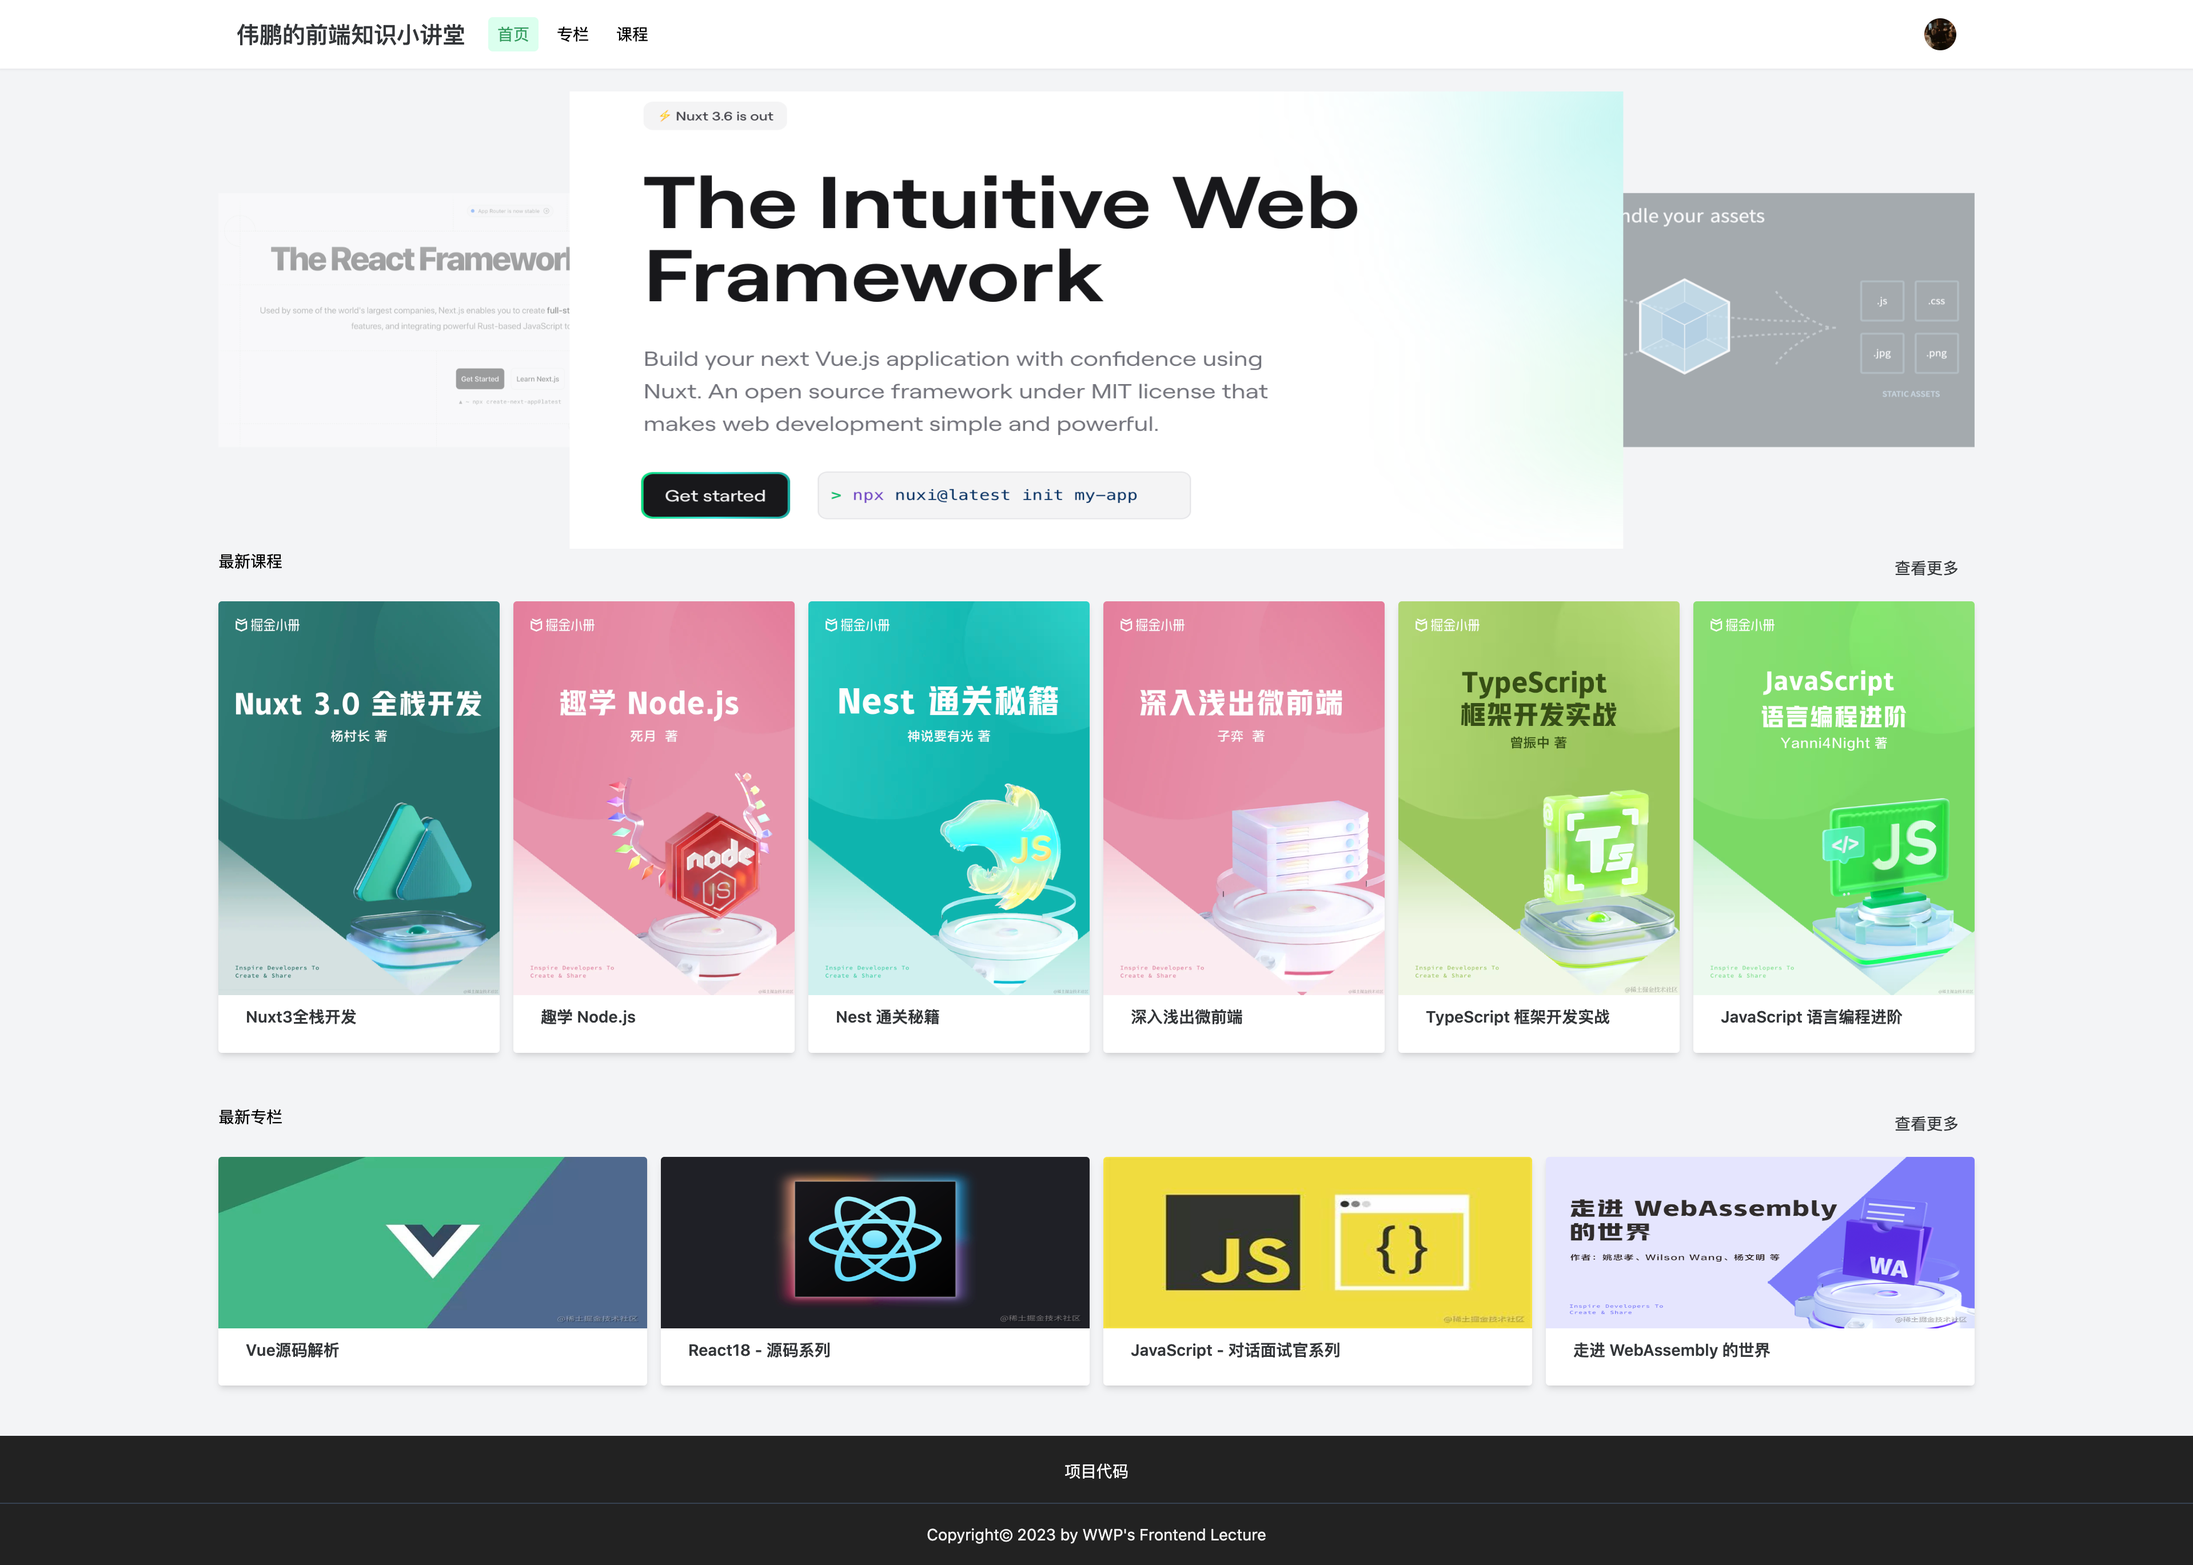
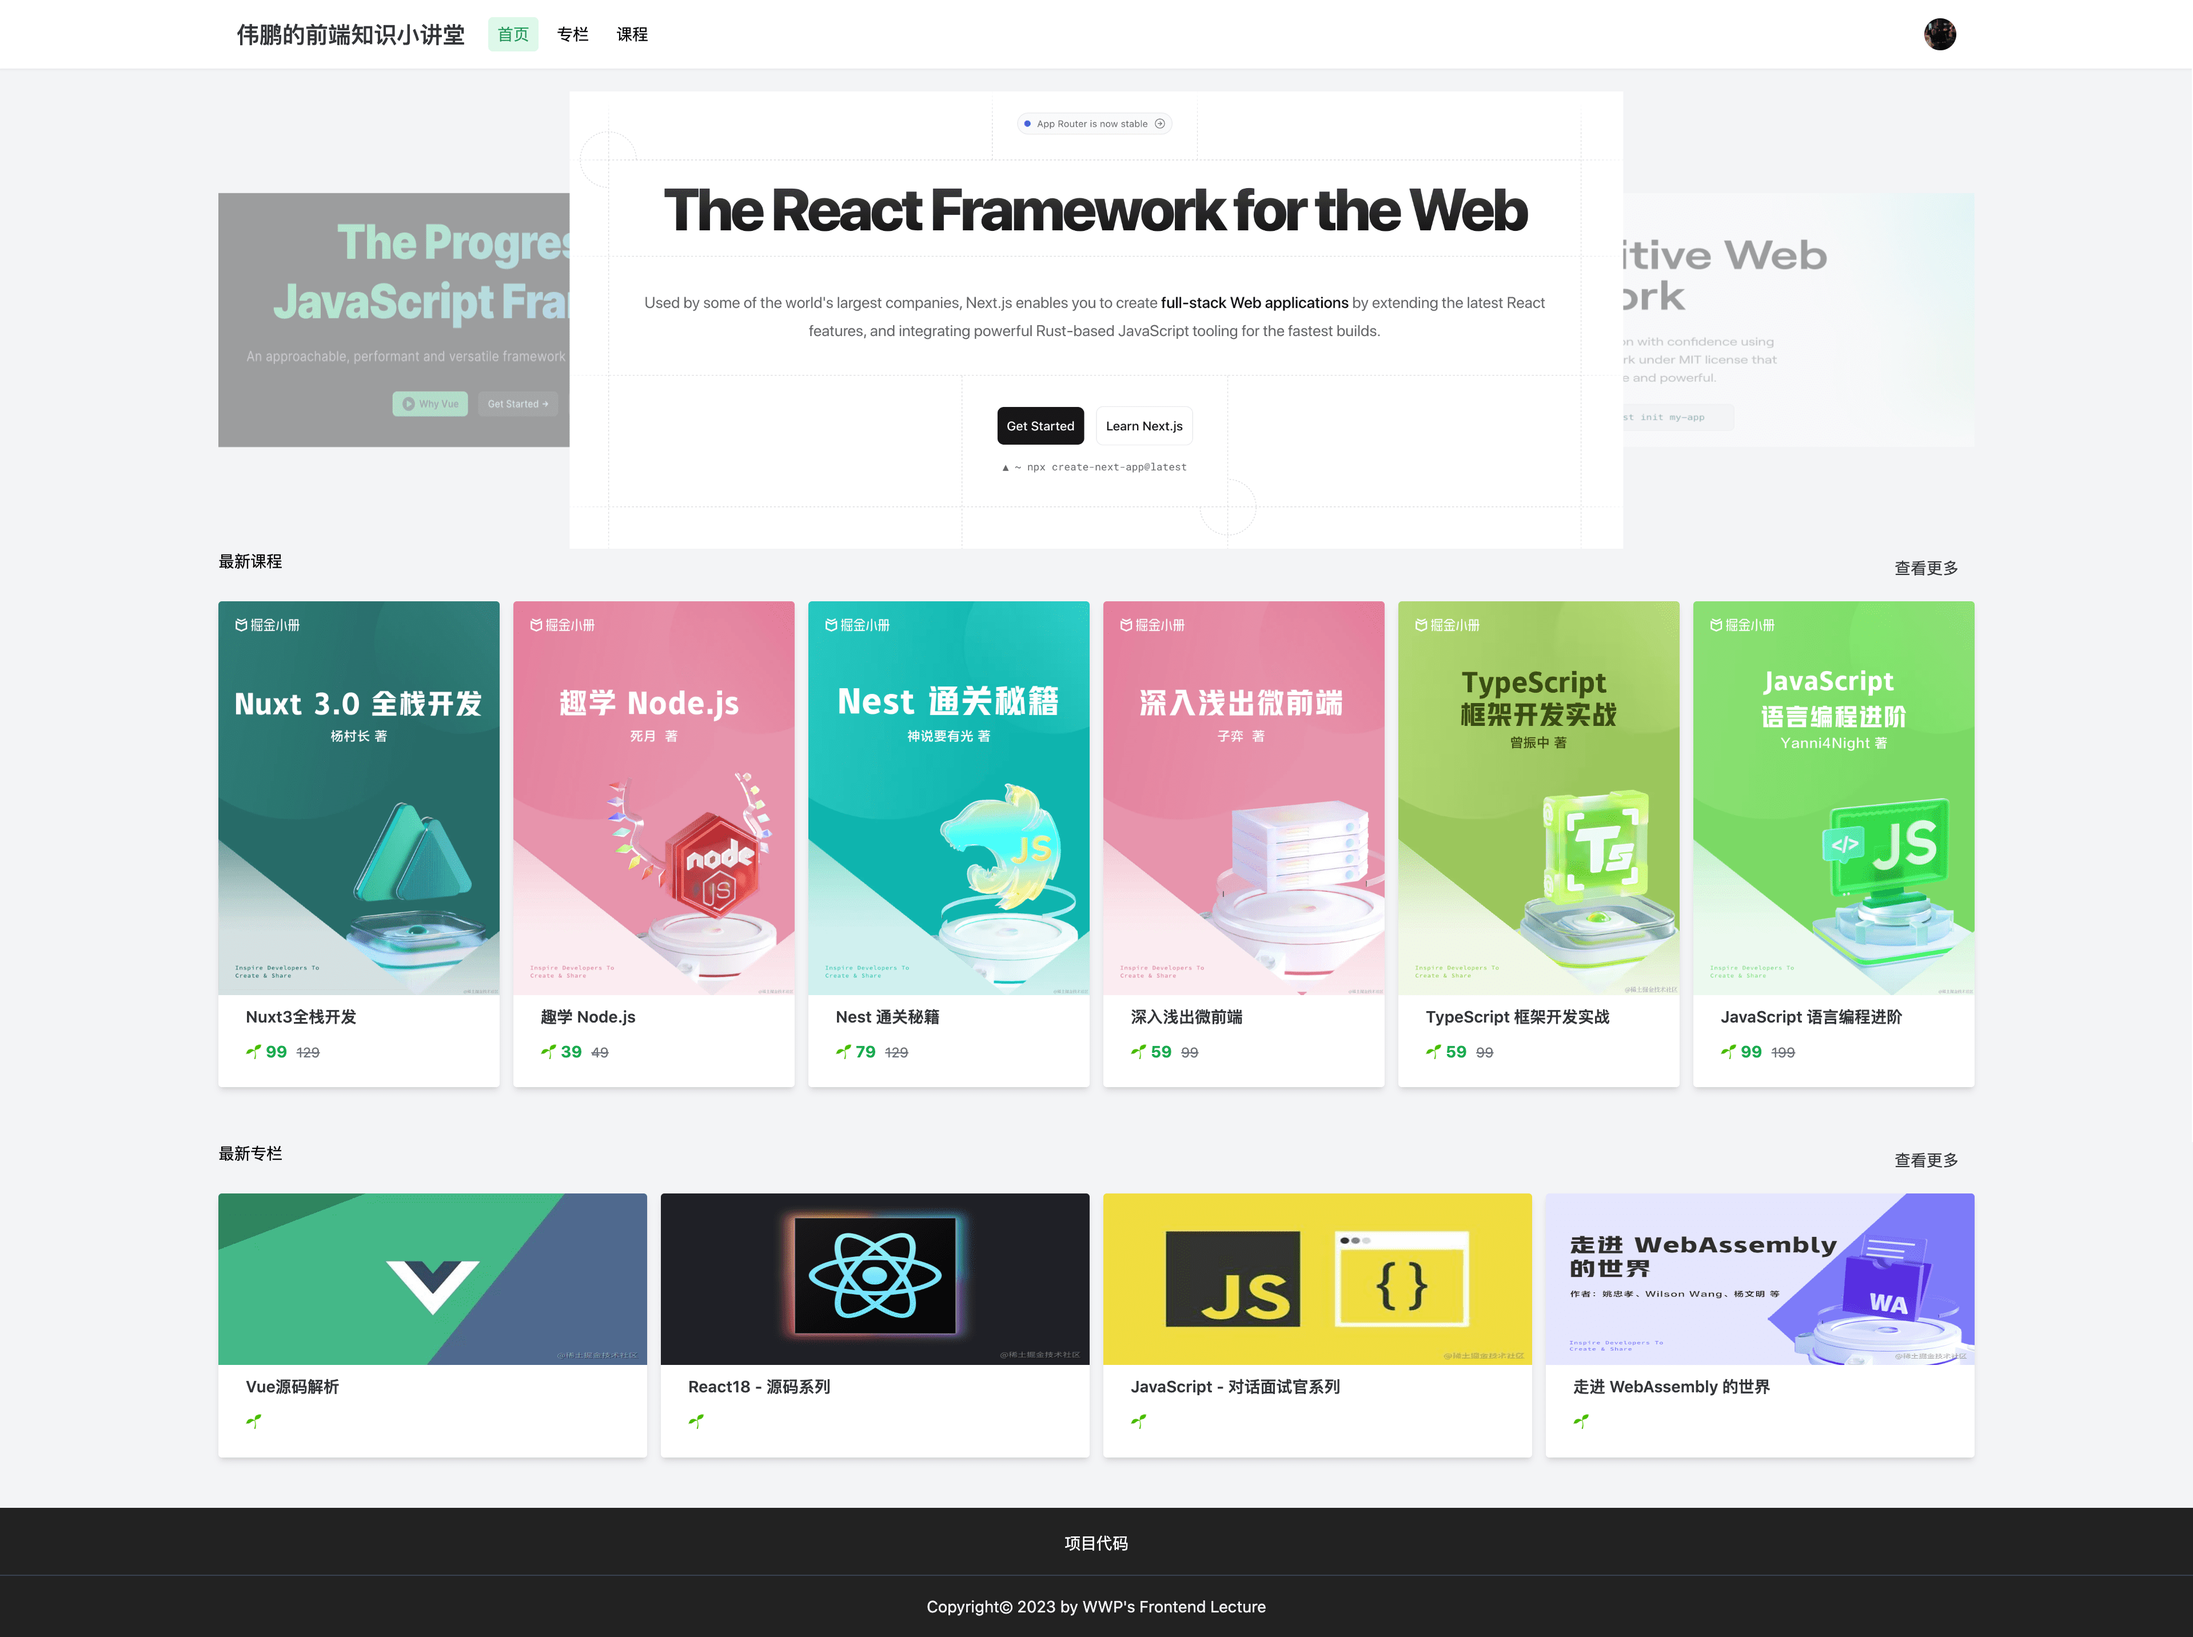
feat: 课程标价

diff --git a/components/Prod.vue b/components/Prod.vue
@@ -45,5 +45,17 @@ const open = () => {
         {{ data.title }}
       </span>
     </div>
+    <div class="mt-2 flex">
+      <div v-if="'price' in data">
+        <span class="text-green-600 font-bold">
+          🌱 {{ data.price }}
+        </span>
+        <span class="text-gray-500 text-xs line-through ml-2">
+          {{ data.oPrice }}
+        </span>
+      </div>
+
+      <span v-else>🌱 免费</span>
+    </div>
   </NCard>
 </template>

diff --git a/README.md b/README.md
@@ -1,7 +1,13 @@
 # Nuxt3学习中心页面
-
 本项目是Nuxt3全栈开发的一个简单版学习中心页面，包括了从接口开发，到前端开发，再到优化、部署的全流程开发。
+### 项目启动
+docker 部署：
+```
+sudo bash ./deploy.sh
+```
 
-## 项目效果
+
+
+### 项目效果
 
 ![avatar](./public/demo.png)
